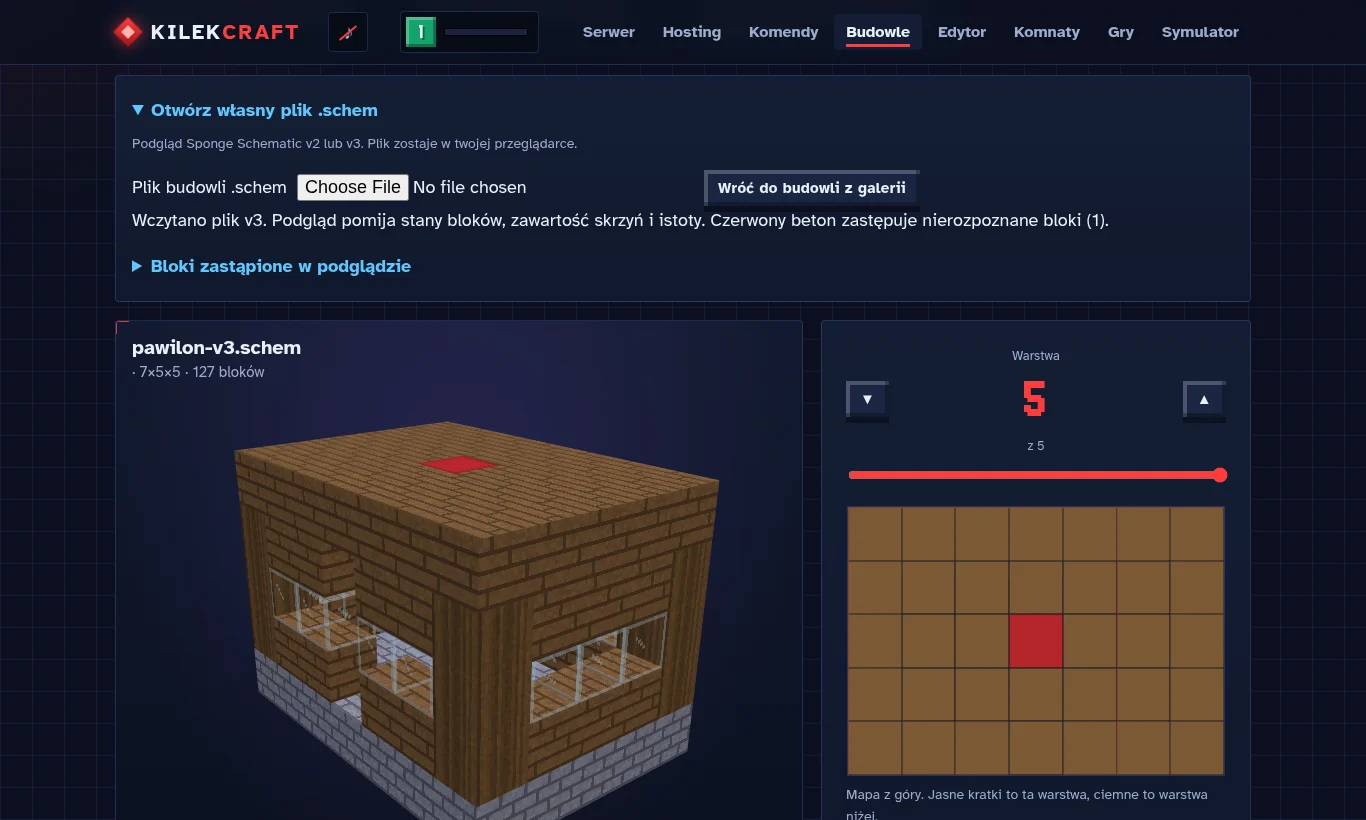
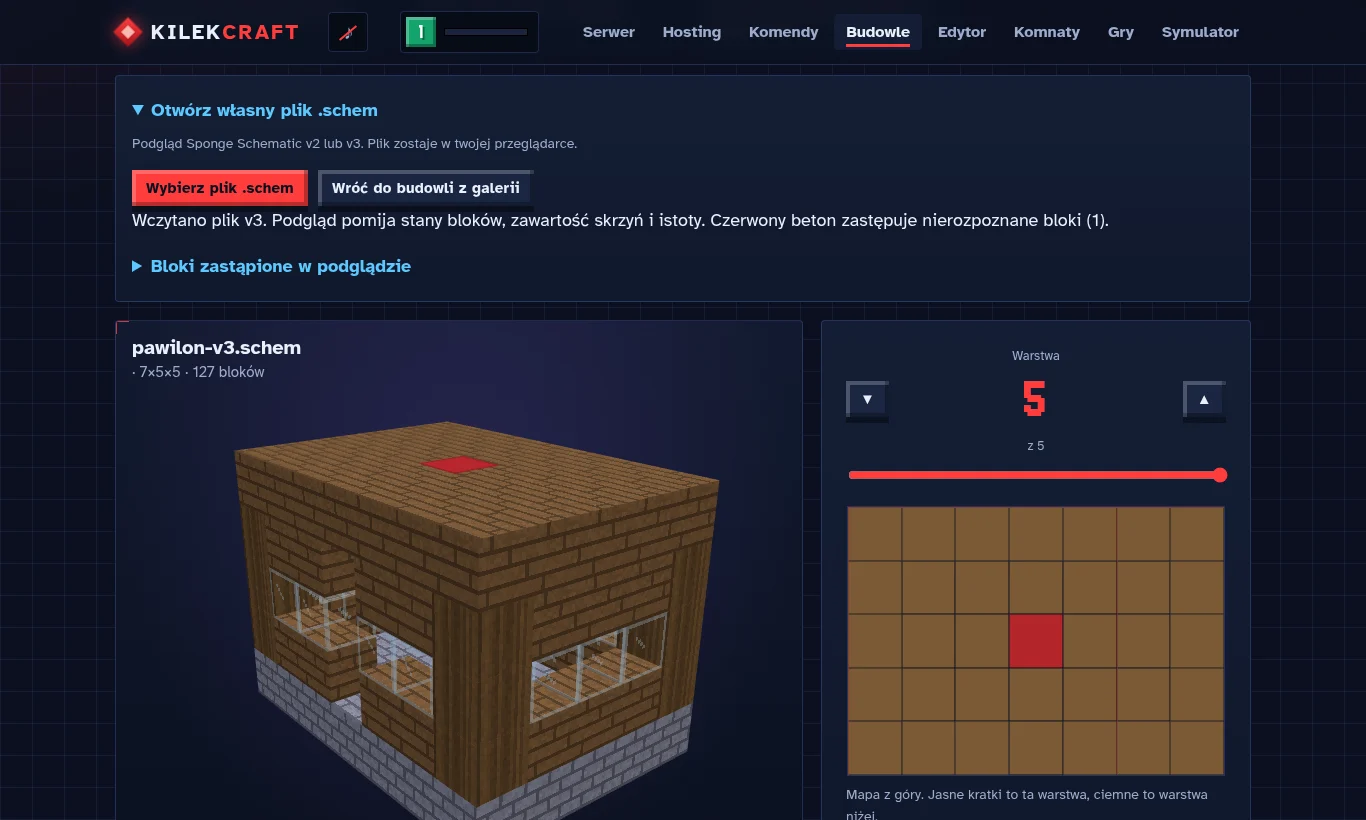
Pokaż polską kontrolkę importu i odnotuj PR #42

Changed region(s): [[0.0922, 0.1829, 0.3997, 0.2744], [0.5227, 0.1829, 0.6764, 0.2439]]

diff --git a/budowle.html b/budowle.html
@@ -44,8 +44,8 @@
     <summary>Otwórz własny plik .schem</summary>
     <p class="muted small">Podgląd Sponge Schematic v2 lub v3. Plik zostaje w twojej przeglądarce.</p>
     <div class="copy-row">
-      <label for="schemFile">Plik budowli .schem</label>
-      <input type="file" id="schemFile" accept=".schem">
+      <input class="sr" type="file" id="schemFile" accept=".schem">
+      <label class="btn sm" for="schemFile">Wybierz plik .schem</label>
       <button class="btn sm ghost" id="closeSchem" type="button" hidden>Wróć do budowli z galerii</button>
     </div>
     <p id="schemStatus" role="status"></p>

diff --git a/assets/css/style.css b/assets/css/style.css
@@ -400,7 +400,7 @@ table.tbl{width:100%;border-collapse:collapse;font-size:15px}
 .bld{display:grid;grid-template-columns:1.6fr 1fr;gap:18px;align-items:start}
 #schemPanel{margin-bottom:18px;padding:12px 16px}
 #schemPanel summary{cursor:pointer;color:var(--sky);font-weight:700}
-#schemFile{max-width:100%;color:var(--text);font:inherit}
+#schemFile:focus-visible+label{outline:3px solid var(--gold);outline-offset:3px}
 #schemStatus:empty{display:none}
 #schemUnknown{overflow-wrap:anywhere}
 .mats .schem-material{display:flex;justify-content:space-between;gap:8px;padding:6px 2px;font-size:15px}
